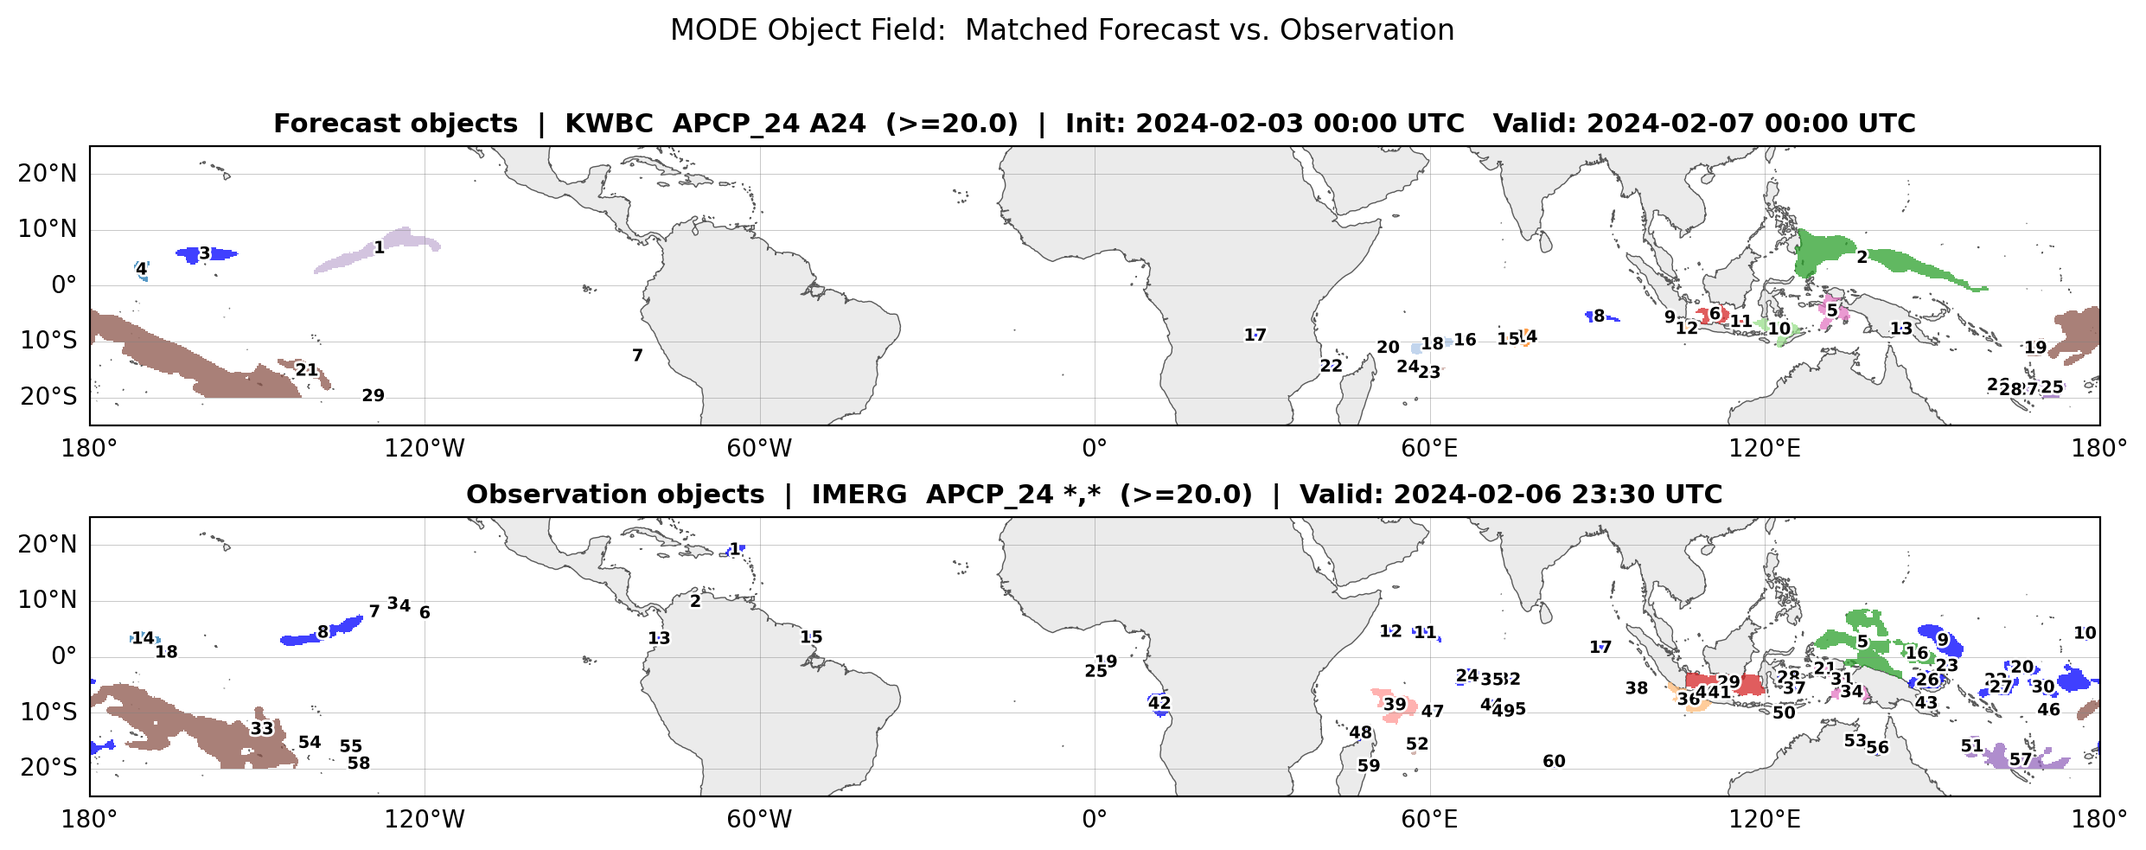
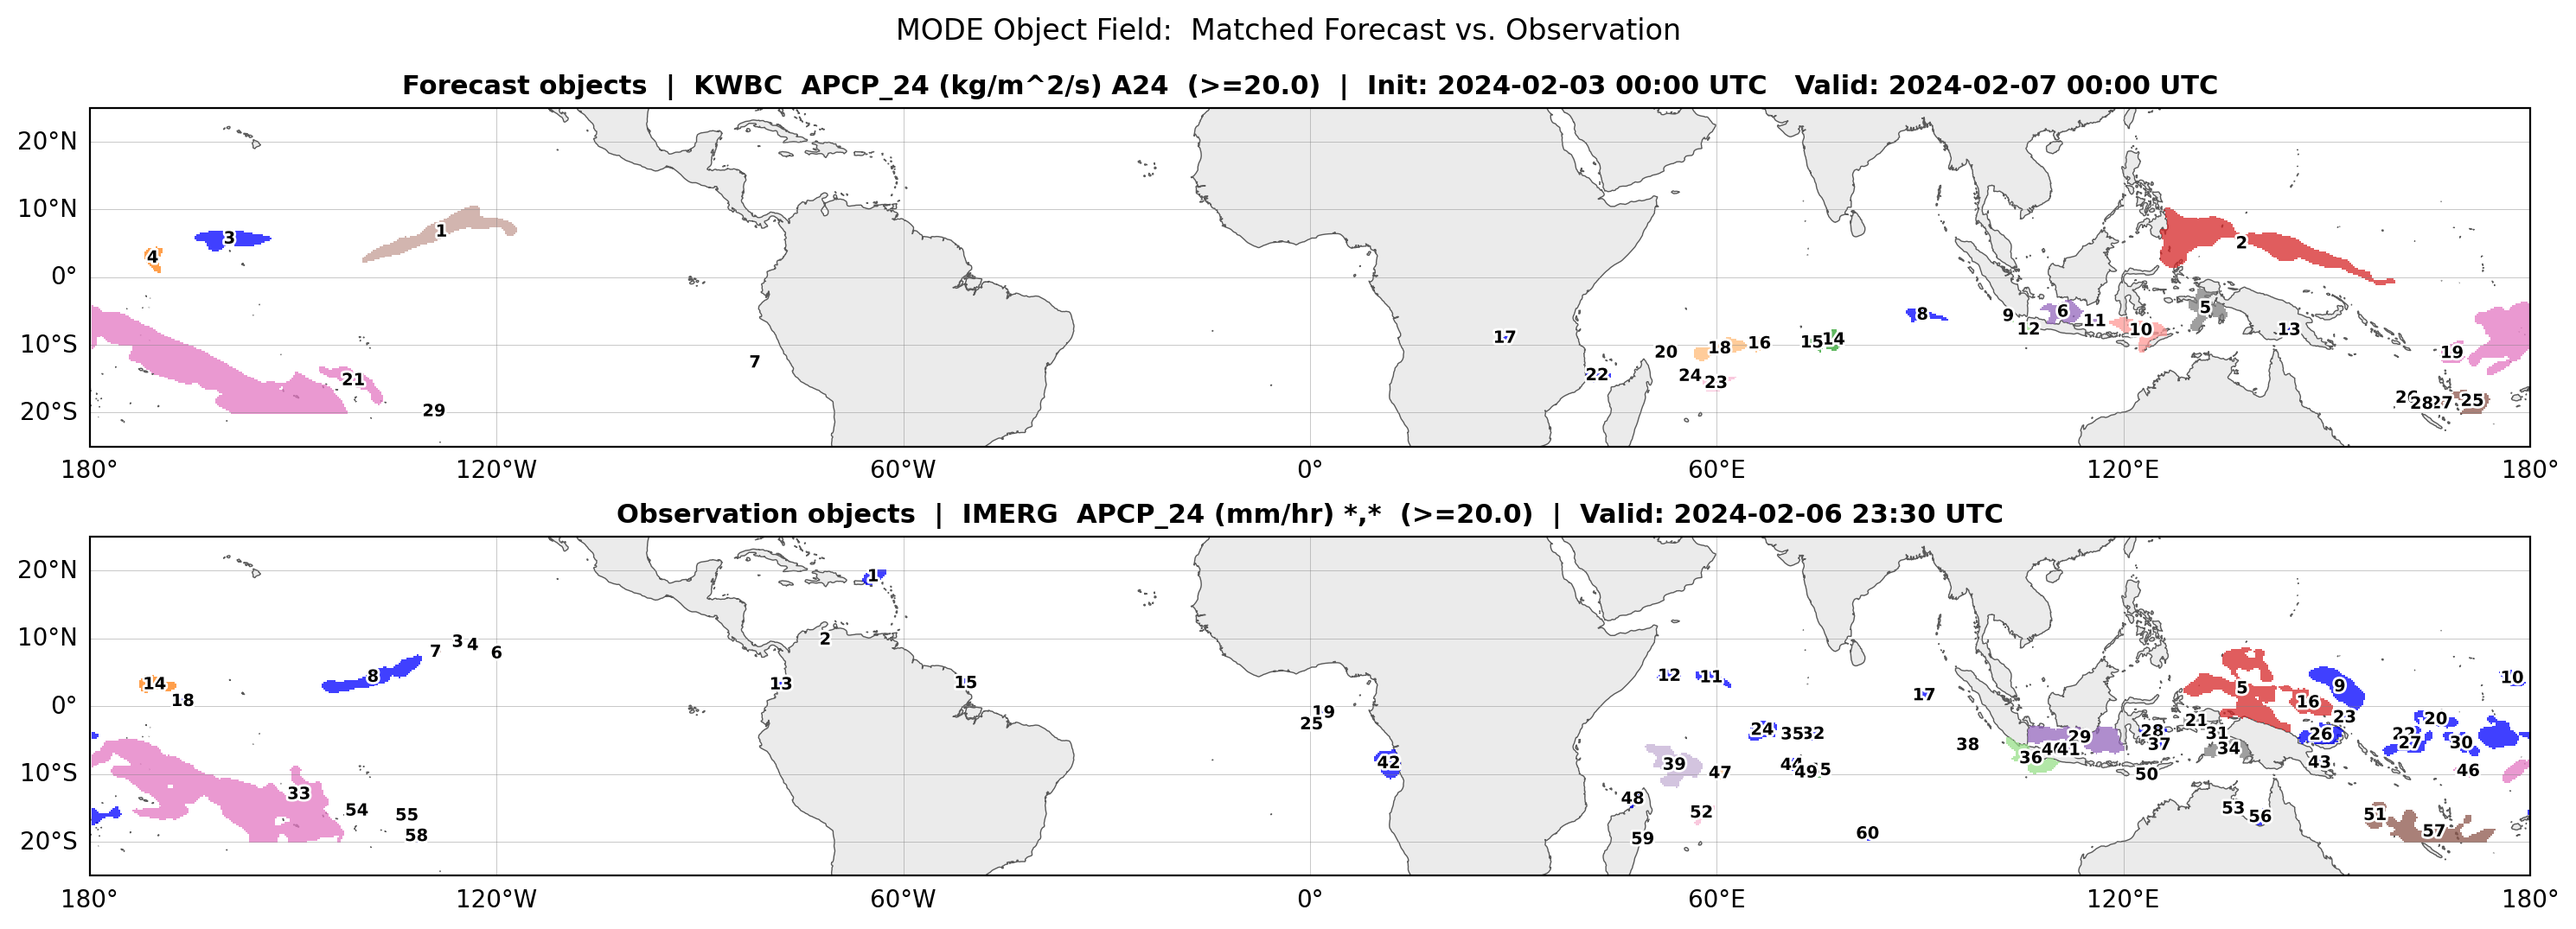
Remove input_dir setting and keep blues out of matched cluster colors
- mode_obj_file is now the full path to the MODE netCDF file, matching
  the raw and objects configs; input_dir is removed from the defaults
  and the config class.
- Matched clusters no longer use the blues from tab20/tab20b, so blue
  only marks unmatched objects.
- Update the expected objects test image and the User's Guide figure.

diff --git a/metplotpy/plots/mode_field_plot/mode_field_plot.py b/metplotpy/plots/mode_field_plot/mode_field_plot.py
@@ -11,6 +11,7 @@ Class Name: ModeFieldPlot
  """
 __author__ = 'Minna Win'
 
+import colorsys
 import os
 import sys
 from datetime import datetime
@@ -320,6 +321,9 @@ class ModeFieldPlot:
         ids = sorted(all_ids)
 
         base_colors = plt.get_cmap("tab20").colors + plt.get_cmap("tab20b").colors
+        # drop blues so matched clusters aren't confused with unmatched (blue) objects
+        base_colors = [c for c in base_colors
+                       if not 190 <= colorsys.rgb_to_hls(*c)[0] * 360 <= 260]
         color_map = {cid: base_colors[i % len(base_colors)] for i, cid in enumerate(ids)}
         return ids, color_map
 

diff --git a/metplotpy/plots/mode_field_plot/mode_field_plot_config.py b/metplotpy/plots/mode_field_plot/mode_field_plot_config.py
@@ -31,9 +31,8 @@ class ModeFieldPlotConfig():
         log_filename = self.get_config_value('log_filename')
         self.logger = util.get_common_logger(log_level, log_filename)
 
-        input_dir = self.get_config_value('input_dir')
-        input_data = self.get_config_value('mode_obj_file')
-        self.input_file = os.path.join(input_dir, input_data)
+        # full path to the MODE netCDF file
+        self.input_file = self.get_config_value('mode_obj_file')
         self.field_to_plot: str = self.get_config_value('field_to_plot')
 
         output_dir = self.get_config_value('output_dir')
